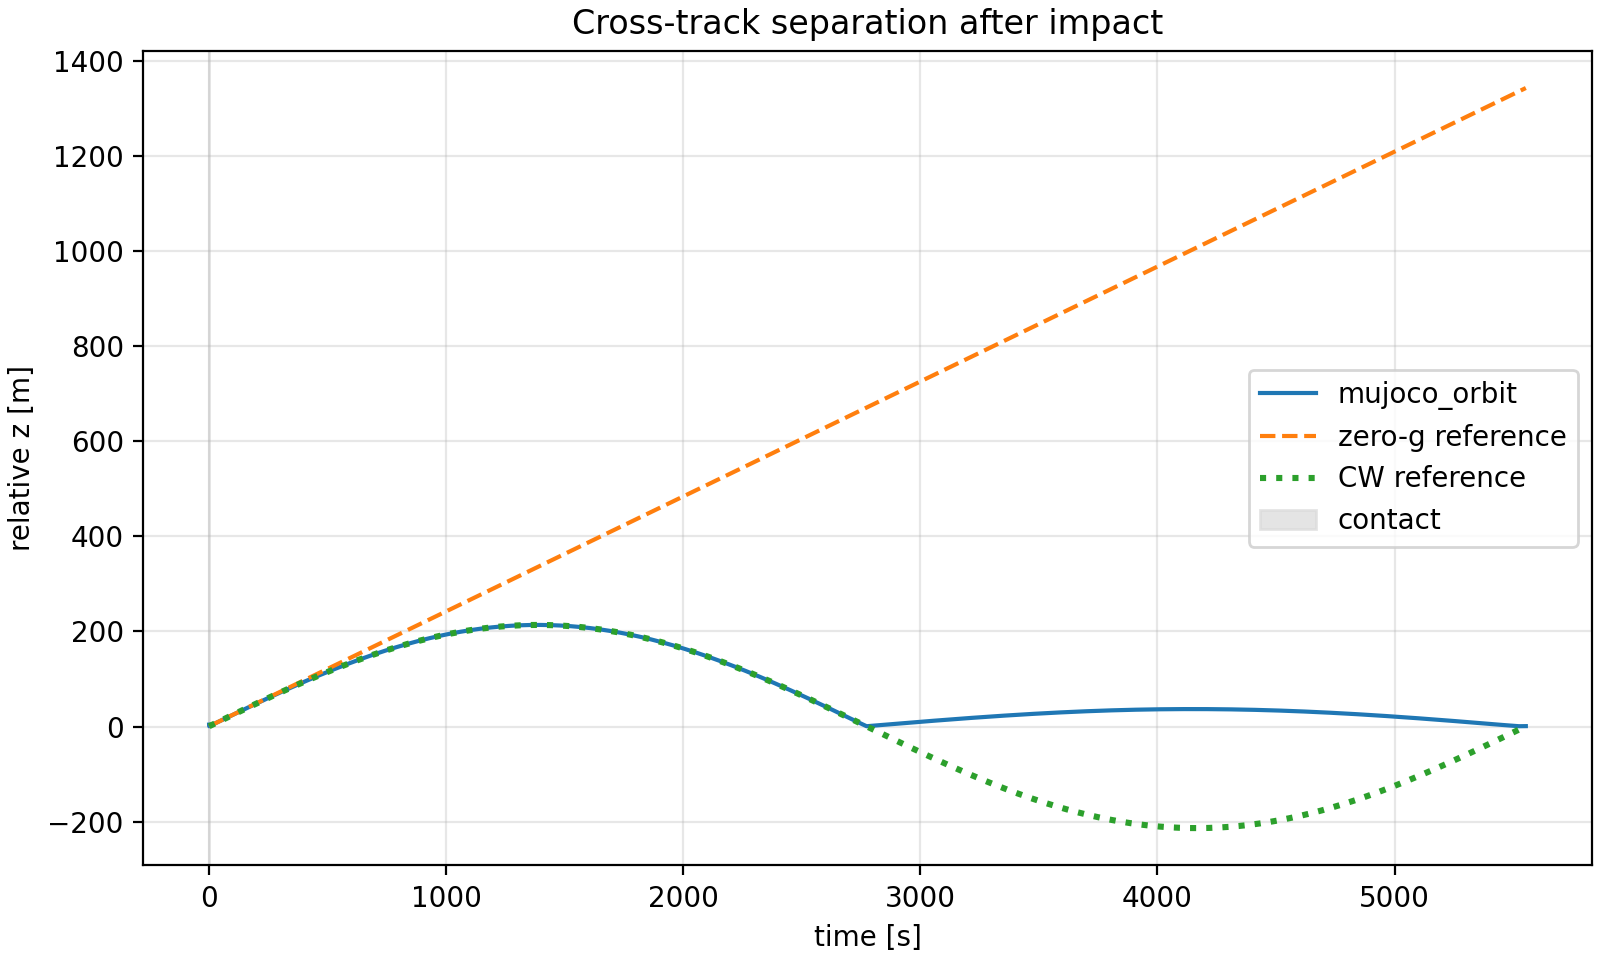
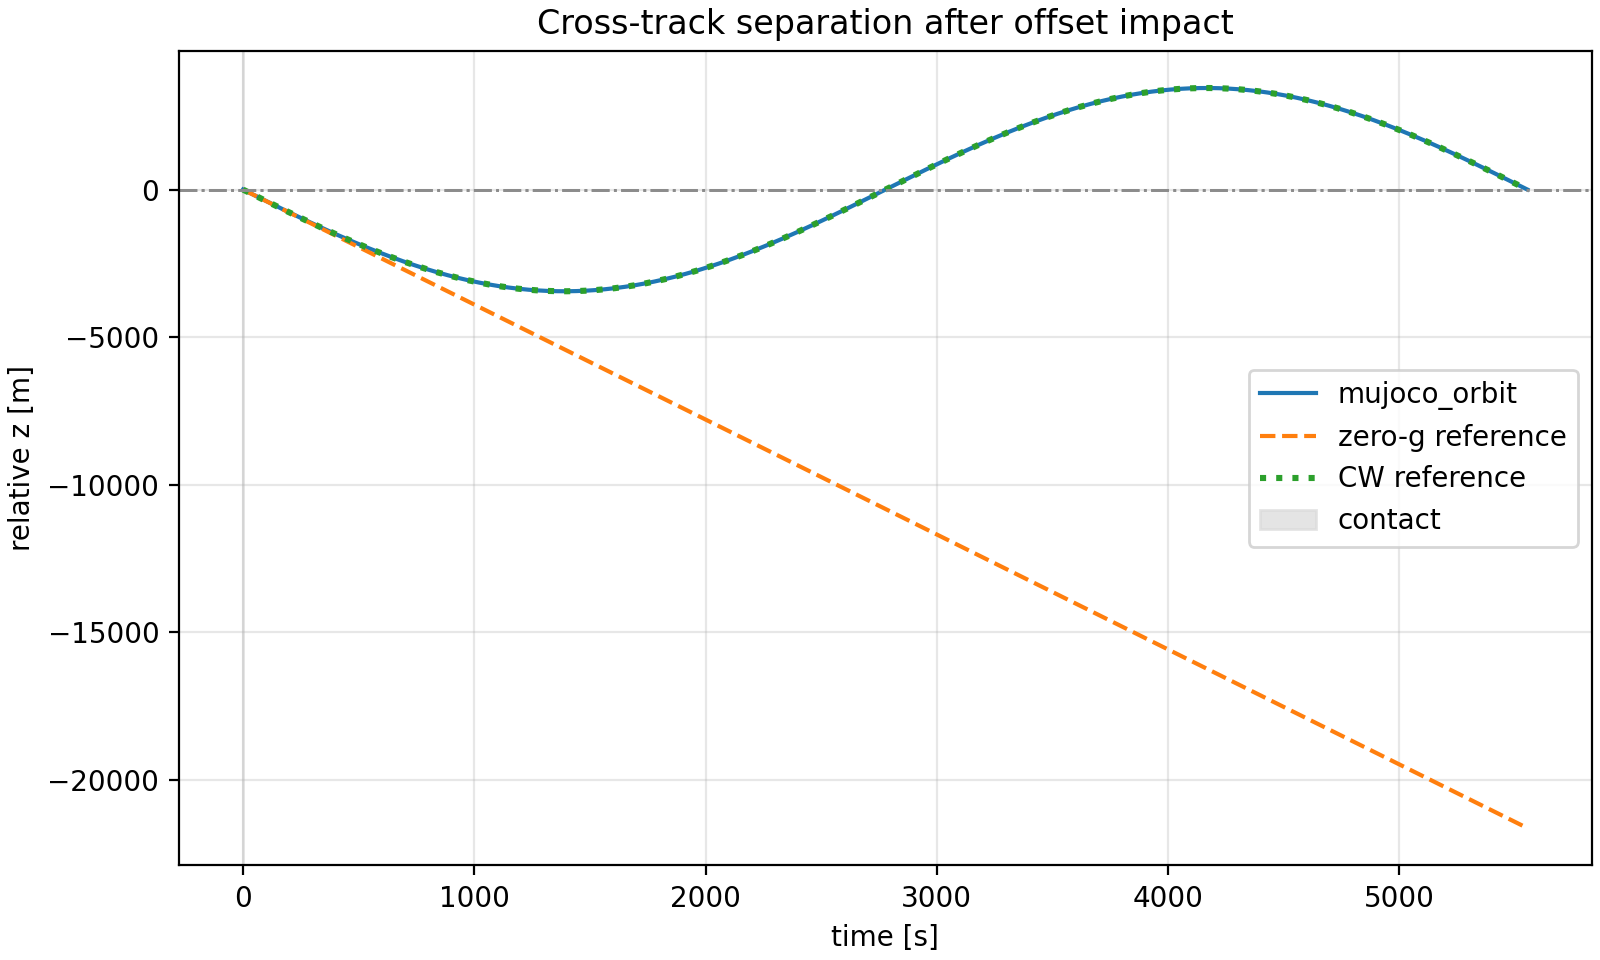
up

diff --git a/experiments/cross_track_collision/run.py b/experiments/cross_track_collision/run.py
@@ -1,12 +1,17 @@
-"""Cross-track collision experiment using the mujoco_orbit simulator API.
+"""Offset cross-track collision experiment using the mujoco_orbit simulator API.
 
-Two equal boxes start on the LVLH cross-track axis and collide head-on.  The
-simulation is run continuously with ``mjo_step`` from before impact through the
-post-impact coast.  For interpretation, the plots include two references seeded
-from the simulator state just after contact ends:
+Two equal boxes start with a cross-track closing velocity and a small lateral
+offset.  The lateral offset is still inside the box contact footprint, so the
+boxes initially collide.  The relative state also includes a bounded in-plane CW
+component, so on the next cross-track return the boxes have lateral clearance
+and pass around each other rather than colliding again.
+
+The simulation is run continuously with ``mjo_step`` from before impact through
+one chief orbit.  For interpretation, the plots include two references seeded
+from the simulator state just after the first contact ends:
 
 - a zero-g constant-velocity reference, where the boxes drift apart forever
-- the CW cross-track oscillator, z(t) = z0 cos(n t) + zdot0 / n sin(n t)
+- the full CW relative-motion solution
 
 Figures are saved under ``experiments/cross_track_collision/figures``.
 
@@ -33,9 +38,12 @@ FIGURE_DIR = EXPERIMENT_DIR / "figures"
 ALT_KM = 400.0
 INCLINATION_DEG = 51.6
 TIMESTEP = 0.02
-INITIAL_HALF_SEPARATION_M = 2.0
+INITIAL_RELATIVE_POSITION_M = np.array([0.45, 0.45, 4.0])
+INITIAL_RELATIVE_RADIAL_VELOCITY_M_S = -1.5e-4
 IMPACT_SPEED_M_S = 5.0
-SIM_ORBIT_FRACTION = 1
+BOX_HALF_SIZE_M = 0.3
+CONTACT_FOOTPRINT_M = 2.0 * BOX_HALF_SIZE_M
+SIM_ORBIT_FRACTION = 1.0
 
 
 @dataclass(frozen=True)
@@ -49,10 +57,27 @@ class Trajectory:
     mean_motion: float
 
 
-def cw_cross_track(z0: float, vz0: float, mean_motion: float, dt: np.ndarray) -> np.ndarray:
-    """CW cross-track relative position for elapsed time ``dt``."""
+def cw_relative(
+    pos0: np.ndarray, vel0: np.ndarray, mean_motion: float, dt: np.ndarray
+) -> np.ndarray:
+    """Clohessy-Wiltshire relative position for elapsed time ``dt``."""
     phase = mean_motion * dt
-    return z0 * np.cos(phase) + vz0 / mean_motion * np.sin(phase)
+    cn = np.cos(phase)
+    sn = np.sin(phase)
+
+    x0, y0, z0 = pos0
+    vx0, vy0, vz0 = vel0
+    n = mean_motion
+
+    x = (4.0 - 3.0 * cn) * x0 + sn / n * vx0 + 2.0 / n * (1.0 - cn) * vy0
+    y = (
+        6.0 * (sn - phase) * x0
+        + y0
+        - 2.0 / n * (1.0 - cn) * vx0
+        + (4.0 * sn - 3.0 * phase) / n * vy0
+    )
+    z = z0 * cn + vz0 / n * sn
+    return np.column_stack((x, y, z))
 
 
 def relative_position(data: MjoData) -> np.ndarray:
@@ -65,16 +90,25 @@ def relative_velocity(data: MjoData) -> np.ndarray:
     return data.qvel[6:9].copy() - data.qvel[0:3].copy()
 
 
-def configure_cross_track_collision(data: MjoData) -> None:
-    """Place the two free boxes on the cross-track axis with opposing velocities."""
-    data.qpos[0:3] = [0.0, 0.0, -INITIAL_HALF_SEPARATION_M]
+def configure_cross_track_collision(data: MjoData, mean_motion: float) -> None:
+    """Place the boxes on an offset cross-track collision course."""
+    rel_pos = INITIAL_RELATIVE_POSITION_M
+    rel_vel = np.array(
+        [
+            INITIAL_RELATIVE_RADIAL_VELOCITY_M_S,
+            -2.0 * mean_motion * rel_pos[0],
+            -2.0 * IMPACT_SPEED_M_S,
+        ]
+    )
+
+    data.qpos[0:3] = -0.5 * rel_pos
     data.qpos[3:7] = [1.0, 0.0, 0.0, 0.0]
-    data.qpos[7:10] = [0.0, 0.0, INITIAL_HALF_SEPARATION_M]
+    data.qpos[7:10] = 0.5 * rel_pos
     data.qpos[10:14] = [1.0, 0.0, 0.0, 0.0]
 
     data.qvel[:] = 0.0
-    data.qvel[2] = IMPACT_SPEED_M_S
-    data.qvel[8] = -IMPACT_SPEED_M_S
+    data.qvel[0:3] = -0.5 * rel_vel
+    data.qvel[6:9] = 0.5 * rel_vel
 
 
 def make_orbit_init() -> tuple[OrbitInit, float]:
@@ -109,7 +143,7 @@ def run_orbit_simulation() -> Trajectory:
     orbit_init, mean_motion = make_orbit_init()
     model = make_model()
     data = MjoData(model, orbit=orbit_init)
-    configure_cross_track_collision(data)
+    configure_cross_track_collision(data, mean_motion)
     mjo_forward(model, data)
 
     orbit_period = 2.0 * np.pi / mean_motion
@@ -138,38 +172,64 @@ def run_orbit_simulation() -> Trajectory:
     )
 
 
-def first_post_contact_index(contact_count: np.ndarray) -> int:
-    """Return the first sample after the initial contact interval ends."""
+def contact_intervals(contact_count: np.ndarray) -> list[tuple[int, int]]:
+    """Return inclusive index intervals where contact is active."""
     contact_indices = np.flatnonzero(contact_count > 0)
     if contact_indices.size == 0:
+        return []
+
+    intervals: list[tuple[int, int]] = []
+    start = contact_indices[0]
+    previous = contact_indices[0]
+    for idx in contact_indices[1:]:
+        if idx == previous + 1:
+            previous = idx
+        else:
+            intervals.append((start, previous))
+            start = idx
+            previous = idx
+    intervals.append((start, previous))
+    return intervals
+
+
+def first_post_contact_index(contact_count: np.ndarray) -> int:
+    """Return the first sample after the initial contact interval ends."""
+    intervals = contact_intervals(contact_count)
+    if not intervals:
         raise RuntimeError("No contact was detected in the orbit-coupled simulation.")
 
-    last_initial_contact = contact_indices[0]
-    for idx in contact_indices[1:]:
-        if idx == last_initial_contact + 1:
-            last_initial_contact = idx
-            continue
-        break
-
-    post_contact_idx = last_initial_contact + 1
+    post_contact_idx = intervals[0][1] + 1
     if post_contact_idx >= contact_count.size:
         raise RuntimeError("Contact did not end before the simulation finished.")
     return post_contact_idx
 
 
 def post_contact_references(trajectory: Trajectory, post_idx: int) -> tuple[np.ndarray, np.ndarray]:
-    """Return zero-g and CW cross-track references seeded from the same post-impact state."""
-    zero_g = np.full_like(trajectory.time, np.nan, dtype=float)
-    cw = np.full_like(trajectory.time, np.nan, dtype=float)
+    """Return zero-g and CW references seeded from the same post-impact state."""
+    zero_g = np.full_like(trajectory.rel_pos, np.nan, dtype=float)
+    cw = np.full_like(trajectory.rel_pos, np.nan, dtype=float)
 
     t0 = trajectory.time[post_idx]
-    z0 = trajectory.rel_pos[post_idx, 2]
-    vz0 = trajectory.rel_vel[post_idx, 2]
+    pos0 = trajectory.rel_pos[post_idx]
+    vel0 = trajectory.rel_vel[post_idx]
     dt = trajectory.time[post_idx:] - t0
 
-    zero_g[post_idx:] = z0 + vz0 * dt
-    cw[post_idx:] = cw_cross_track(z0, vz0, trajectory.mean_motion, dt)
+    zero_g[post_idx:] = pos0 + dt[:, None] * vel0
+    cw[post_idx:] = cw_relative(pos0, vel0, trajectory.mean_motion, dt)
     return zero_g, cw
+
+
+def shade_contact_intervals(ax, trajectory: Trajectory, *, label_first: bool = False) -> None:
+    """Shade contact intervals on a time-axis plot."""
+    for interval_idx, (start, end) in enumerate(contact_intervals(trajectory.contact_count)):
+        label = "contact" if label_first and interval_idx == 0 else None
+        ax.axvspan(
+            trajectory.time[start],
+            trajectory.time[min(end + 1, trajectory.time.size - 1)],
+            color="0.85",
+            alpha=0.7,
+            label=label,
+        )
 
 
 def save_cross_track_plot(
@@ -178,16 +238,12 @@ def save_cross_track_plot(
     """Save relative cross-track position vs time."""
     fig, ax = plt.subplots(figsize=(8.0, 4.8), constrained_layout=True)
     ax.plot(trajectory.time, trajectory.rel_pos[:, 2], label="mujoco_orbit")
-    ax.plot(trajectory.time, zero_g, "--", label="zero-g reference")
-    ax.plot(trajectory.time, cw, ":", linewidth=2.2, label="CW reference")
-    ax.axvspan(
-        trajectory.time[np.argmax(trajectory.contact_count > 0)],
-        trajectory.time[post_idx],
-        color="0.85",
-        alpha=0.7,
-        label="contact",
-    )
-    ax.set_title("Cross-track separation after impact")
+    ax.plot(trajectory.time, zero_g[:, 2], "--", label="zero-g reference")
+    ax.plot(trajectory.time, cw[:, 2], ":", linewidth=2.2, label="CW reference")
+    ax.axhline(CONTACT_FOOTPRINT_M, color="0.55", linestyle="-.", linewidth=1.0)
+    ax.axhline(-CONTACT_FOOTPRINT_M, color="0.55", linestyle="-.", linewidth=1.0)
+    shade_contact_intervals(ax, trajectory, label_first=True)
+    ax.set_title("Cross-track separation after offset impact")
     ax.set_xlabel("time [s]")
     ax.set_ylabel("relative z [m]")
     ax.grid(True, alpha=0.3)
@@ -200,7 +256,7 @@ def save_cross_track_plot(
 
 
 def save_phase_plot(trajectory: Trajectory, post_idx: int) -> Path:
-    """Save the cross-track phase plane, where the bounded motion is circular."""
+    """Save the cross-track phase plane, where the bounded z motion is circular."""
     z0 = trajectory.rel_pos[post_idx, 2]
     vz0 = trajectory.rel_vel[post_idx, 2]
     phase_radius = np.hypot(z0, vz0 / trajectory.mean_motion)
@@ -232,13 +288,64 @@ def save_phase_plot(trajectory: Trajectory, post_idx: int) -> Path:
     return path
 
 
+def save_lateral_clearance_plot(trajectory: Trajectory) -> Path:
+    """Save lateral offsets relative to the box contact footprint."""
+    fig, ax = plt.subplots(figsize=(8.0, 4.8), constrained_layout=True)
+    ax.plot(trajectory.time, trajectory.rel_pos[:, 0], label="x radial")
+    ax.plot(trajectory.time, trajectory.rel_pos[:, 1], label="y along-track")
+    ax.axhline(CONTACT_FOOTPRINT_M, color="0.45", linestyle="--", linewidth=1.0)
+    ax.axhline(-CONTACT_FOOTPRINT_M, color="0.45", linestyle="--", linewidth=1.0)
+    shade_contact_intervals(ax, trajectory, label_first=True)
+    ax.set_title("Lateral clearance at cross-track returns")
+    ax.set_xlabel("time [s]")
+    ax.set_ylabel("relative lateral offset [m]")
+    ax.grid(True, alpha=0.3)
+    ax.legend(loc="best")
+
+    path = FIGURE_DIR / "lateral_clearance.png"
+    fig.savefig(path, dpi=200)
+    plt.close(fig)
+    return path
+
+
+def save_relative_trajectory_plot(trajectory: Trajectory, post_idx: int, cw: np.ndarray) -> Path:
+    """Save the 3D relative trajectory after first contact."""
+    fig = plt.figure(figsize=(7.0, 6.2), constrained_layout=True)
+    ax = fig.add_subplot(111, projection="3d")
+    ax.plot(
+        trajectory.rel_pos[post_idx:, 0],
+        trajectory.rel_pos[post_idx:, 1],
+        trajectory.rel_pos[post_idx:, 2],
+        label="mujoco_orbit",
+    )
+    ax.plot(cw[post_idx:, 0], cw[post_idx:, 1], cw[post_idx:, 2], "--", label="CW reference")
+    ax.scatter(
+        [trajectory.rel_pos[post_idx, 0]],
+        [trajectory.rel_pos[post_idx, 1]],
+        [trajectory.rel_pos[post_idx, 2]],
+        s=35,
+        label="post-impact state",
+    )
+    ax.set_title("Post-impact relative trajectory")
+    ax.set_xlabel("x radial [m]")
+    ax.set_ylabel("y along-track [m]")
+    ax.set_zlabel("z cross-track [m]")
+    ax.legend(loc="best")
+
+    path = FIGURE_DIR / "relative_trajectory_3d.png"
+    fig.savefig(path, dpi=200)
+    plt.close(fig)
+    return path
+
+
 def save_component_plot(trajectory: Trajectory, post_idx: int) -> Path:
-    """Save all relative position components to show the collision is cross-track."""
+    """Save all relative position components."""
     fig, ax = plt.subplots(figsize=(8.0, 4.8), constrained_layout=True)
     ax.plot(trajectory.time, trajectory.rel_pos[:, 0], label="x radial")
     ax.plot(trajectory.time, trajectory.rel_pos[:, 1], label="y along-track")
     ax.plot(trajectory.time, trajectory.rel_pos[:, 2], label="z cross-track")
     ax.axvline(trajectory.time[post_idx], color="0.35", linestyle="--", label="post-contact")
+    shade_contact_intervals(ax, trajectory)
     ax.set_title("Relative position components")
     ax.set_xlabel("time [s]")
     ax.set_ylabel("relative position [m]")
@@ -261,6 +368,8 @@ def main() -> None:
     paths = [
         save_cross_track_plot(trajectory, post_idx, zero_g, cw),
         save_phase_plot(trajectory, post_idx),
+        save_lateral_clearance_plot(trajectory),
+        save_relative_trajectory_plot(trajectory, post_idx, cw),
         save_component_plot(trajectory, post_idx),
     ]
 
